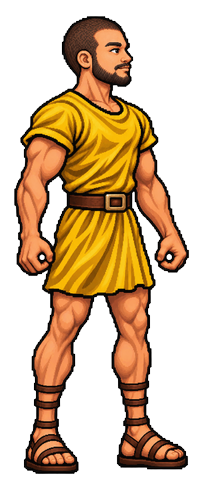
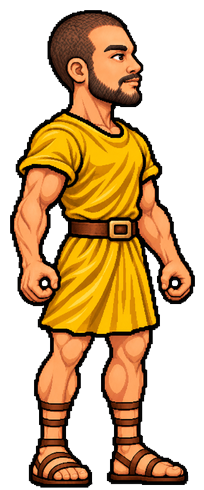
Nouveau sprite de MaximusRr aux mêmes proportions que les autres potes
Positions des poings recalées, ASSET_V passé à v=6. WEAPON_IMG accepte aussi
des images d'armes verticales ({f, v:1, h, g}), pas encore utilisées.

Claude-Session: https://claude.ai/code/session_01KAPrrVq5fSLyxcSHdi6H6B

diff --git a/index.html b/index.html
@@ -934,7 +934,7 @@ function drawGlad(c, x, y, dir, L, st={}){
 /* ============ SPRITES DES POTES ============ */
 // version des images : à augmenter quand une image est remplacée sous le même nom,
 // pour que les navigateurs ne ressortent pas l'ancienne de leur cache
-const ASSET_V = '?v=5';
+const ASSET_V = '?v=6';
 const SPR = {};
 const SPR_AX = 100, SPR_AY = 488, SPR_H = 478;   // ancre = entre les pieds
 function loadSprites(cb){
@@ -962,7 +962,7 @@ const ITEM_FILES = ['gladius','glaive','champion','dague','hache','trident','lan
 const IMG = {};
 // armes : longueur (unités du sprite) + point de prise (fraction pommeau → pointe)
 const WEAPON_IMG = {
-  gladius:{f:'gladius', len:190, t:.14}, glaive:{f:'glaive', len:280, t:.12}, champion:{f:'champion', len:300, t:.12},
+  gladius:{f:'gladius', len:190, t:.14},   // variante possible {f, v:1, h, g} : image verticale, h = hauteur, g = centre de la poignée depuis le bas glaive:{f:'glaive', len:280, t:.12}, champion:{f:'champion', len:300, t:.12},
   dague:{f:'dague', len:135, t:.17}, hache:{f:'hache', len:270, t:.12}, trident:{f:'trident', len:400, t:.27},
   lance:{f:'lance', len:400, t:.27}, fouet:{f:'fouet', w:250, gx:.12, gy:.74},
   sica:{f:'sica', len:220, t:.13}, scissor:{f:'scissor', len:230, t:.22}, pilum:{f:'pilum', len:420, t:.3}, cestes:{f:'cestes', len:175, t:.52}
@@ -1029,7 +1029,8 @@ function drawWeaponImg(c, type, flash){
   if(!it) return false;
   const iw = it.n.width, ih = it.n.height;
   let s, gx, gy;
-  if(d.len){ s = d.len/Math.hypot(iw,ih); gx = d.t*iw; gy = ih - d.t*ih; }
+  if(d.v){ s = d.h/ih; gx = iw/2; gy = ih*(1-d.g); }
+  else if(d.len){ s = d.len/Math.hypot(iw,ih); gx = d.t*iw; gy = ih - d.t*ih; }
   else { s = d.w/iw; gx = d.gx*iw; gy = d.gy*ih; }
   c.drawImage(flash ? it.w : it.n, -gx*s, -gy*s, iw*s, ih*s);
   return true;
@@ -1182,7 +1183,7 @@ const RIG_PERSO = {
 const FISTS = {
   darkkus:{f:[171,287], b:[51,289]}, fredhus:{f:[175,285], b:[50,287]}, sweevus:{f:[174,285], b:[47,285]},
   chelmacus:{f:[172,288], b:[52,291]}, dridricus:{f:[173,283], b:[37,283]}, kubenicus:{f:[171,287], b:[50,288]},
-  maximusrr:{f:[167,255], b:[43,257]}, beelgraalus:{f:[173,285], b:[48,289]},
+  maximusrr:{f:[175,283], b:[45,283]}, beelgraalus:{f:[173,285], b:[48,289]},
   // adversaires
   'e:bestiaire':{f:[177,259], b:[50,260]},
   'e:retiaire':{f:[178,272], b:[38,274]},
@@ -1247,6 +1248,7 @@ function drawSpriteGlad(c, x, y, dir, L, st={}){
   // décalage de la main arrière de ce perso par rapport à la référence de WEAR
   // poing dessiné autour d'un manche vertical : on redresse l'arme (images à 45°) pour qu'elle traverse le trou du poing
   const WOFF = FI ? -0.62 : 0;
+  const wvert = (WEAPON_IMG[L.weapon||'gladius']||{}).v ? Math.PI/4 : 0;
   const BD = FI ? [FI.b[0]-SPR_AX-FIST_B0[0], FI.b[1]-SPR_AY-FIST_B0[1]] : [0,0];
   // les adversaires dessinés portent déjà leur tenue : seuls l'arme, le bouclier et le filet s'ajoutent
   if(S.rig === RIG_ENEMY) L = Object.assign({}, L, {helmet:0, chest:0, cuir:0, greaves:0, manica:0, galerus:0, lion:0, emperor:0, chope:0});
@@ -1283,7 +1285,7 @@ function drawSpriteGlad(c, x, y, dir, L, st={}){
   // arme : les armes d'hast passent derrière le corps, la main reste devant
   const polearm = ['trident','lance','pilum'].includes(L.weapon);
   const weapon = ()=>{
-    c.save(); c.translate(HD[0],HD[1]); c.rotate(P.wpn + WOFF);
+    c.save(); c.translate(HD[0],HD[1]); c.rotate(P.wpn + WOFF + wvert);
     c.imageSmoothingEnabled = false; blitPix(c, G.weapon, WPN_BOX, flash); c.imageSmoothingEnabled = true;
     drawWeaponImg(c, L.weapon||'gladius', flash);
     c.restore();
@@ -1328,7 +1330,8 @@ function drawSpriteGlad(c, x, y, dir, L, st={}){
     const d = WEAPON_IMG[L.weapon||'gladius'] || WEAPON_IMG.gladius, it = IMG[d.f];
     const iw = it ? it.n.width : 300, ih = it ? it.n.height : 300;
     let tip;
-    if(d.len){ const sc = d.len/Math.hypot(iw, ih); tip = [(1-d.t)*iw*sc, -(1-d.t)*ih*sc]; }
+    if(d.v){ const sc = d.h/ih, L0 = ih*(1-d.g)*sc; tip = [L0*Math.SQRT1_2, -L0*Math.SQRT1_2]; }
+    else if(d.len){ const sc = d.len/Math.hypot(iw, ih); tip = [(1-d.t)*iw*sc, -(1-d.t)*ih*sc]; }
     else { const sc = d.w/iw; tip = [(1-d.gx)*iw*sc, -d.gy*ih*sc]; }
     const rot = ([x,y], a) => [x*Math.cos(a) - y*Math.sin(a), x*Math.sin(a) + y*Math.cos(a)];
     const hand = [HD[0]-PIV.armF[0], HD[1]-PIV.armF[1]], wt = rot(tip, P.wpn + WOFF);
